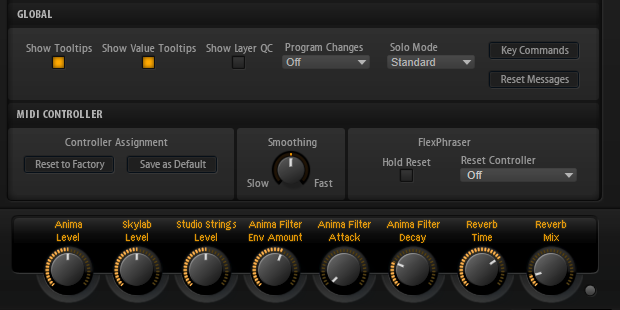
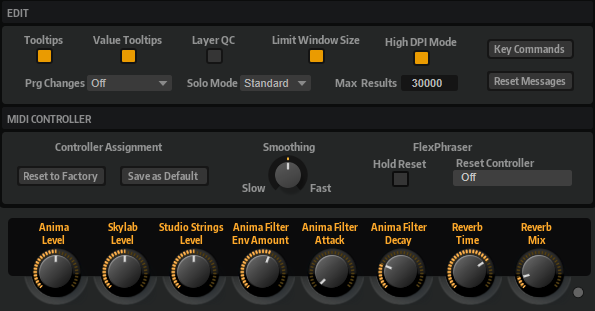
Updated screenshots to HS7

diff --git a/src/HALion-Tutorials-Guidelines/pages/HS-Preset-Guideline.md b/src/HALion-Tutorials-Guidelines/pages/HS-Preset-Guideline.md
@@ -43,7 +43,7 @@ When you create the final HALion Sonic Program presets, you should follow the gu
 * Remove any effects that you do not use anymore.
 * Avoid empty slots in the insert rack.
 
-![HS3 Inserts Tab](../images/HS3-Inserts-Tab.png)
+![HS Inserts Tab](../images/HS-Inserts-Tab.png)
 
 In the example above, the second insert is deactivated and the third is empty. This should be avoided.
 
